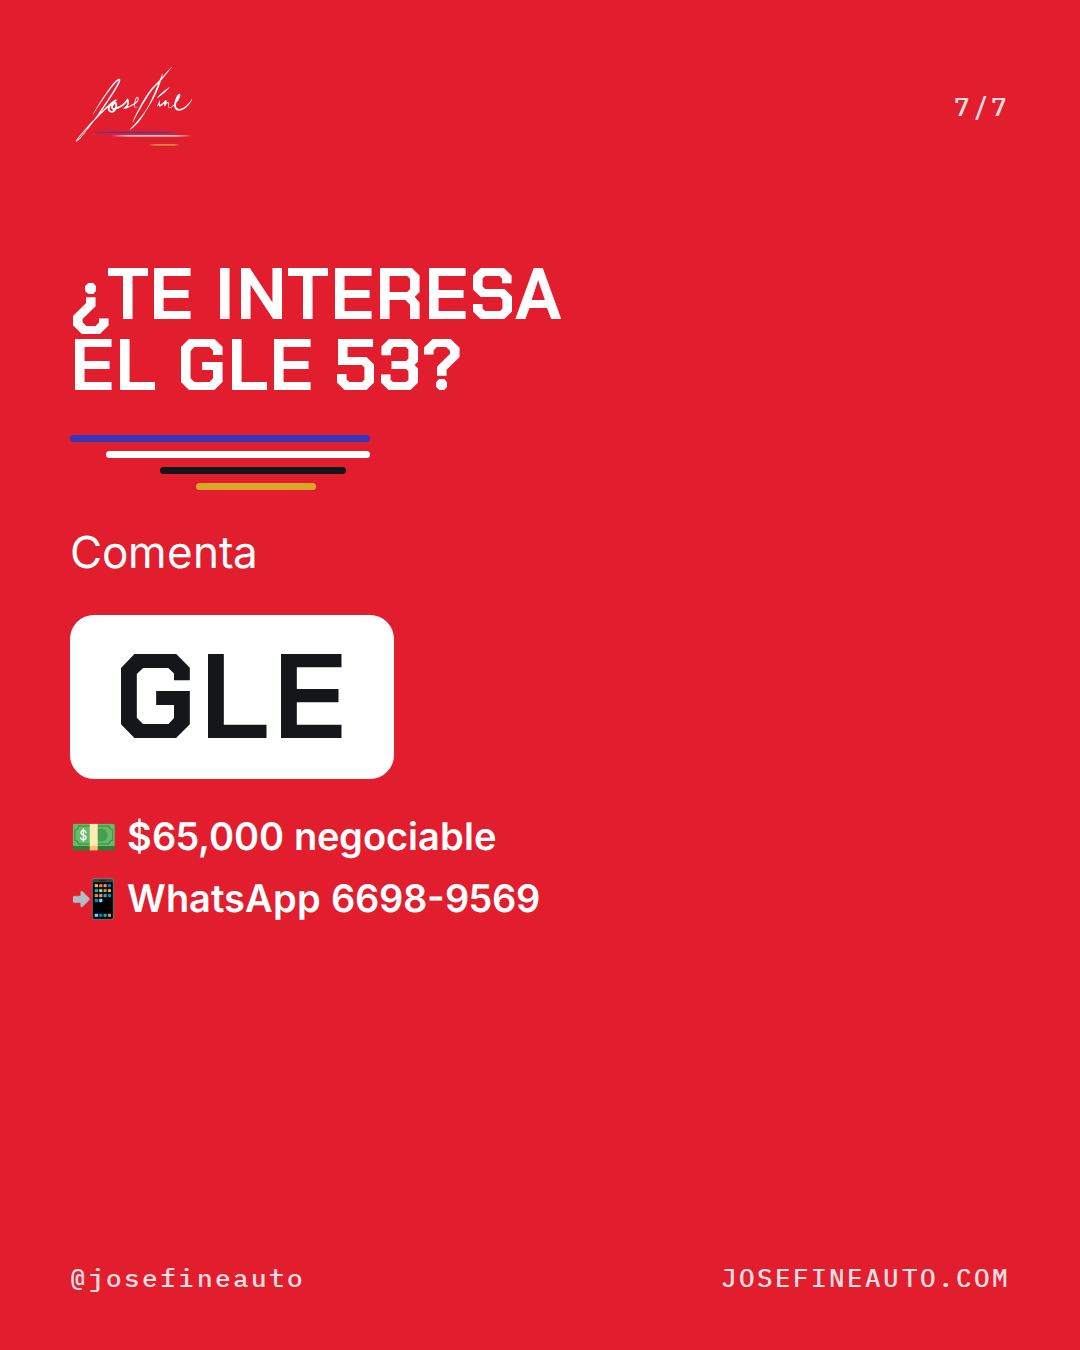
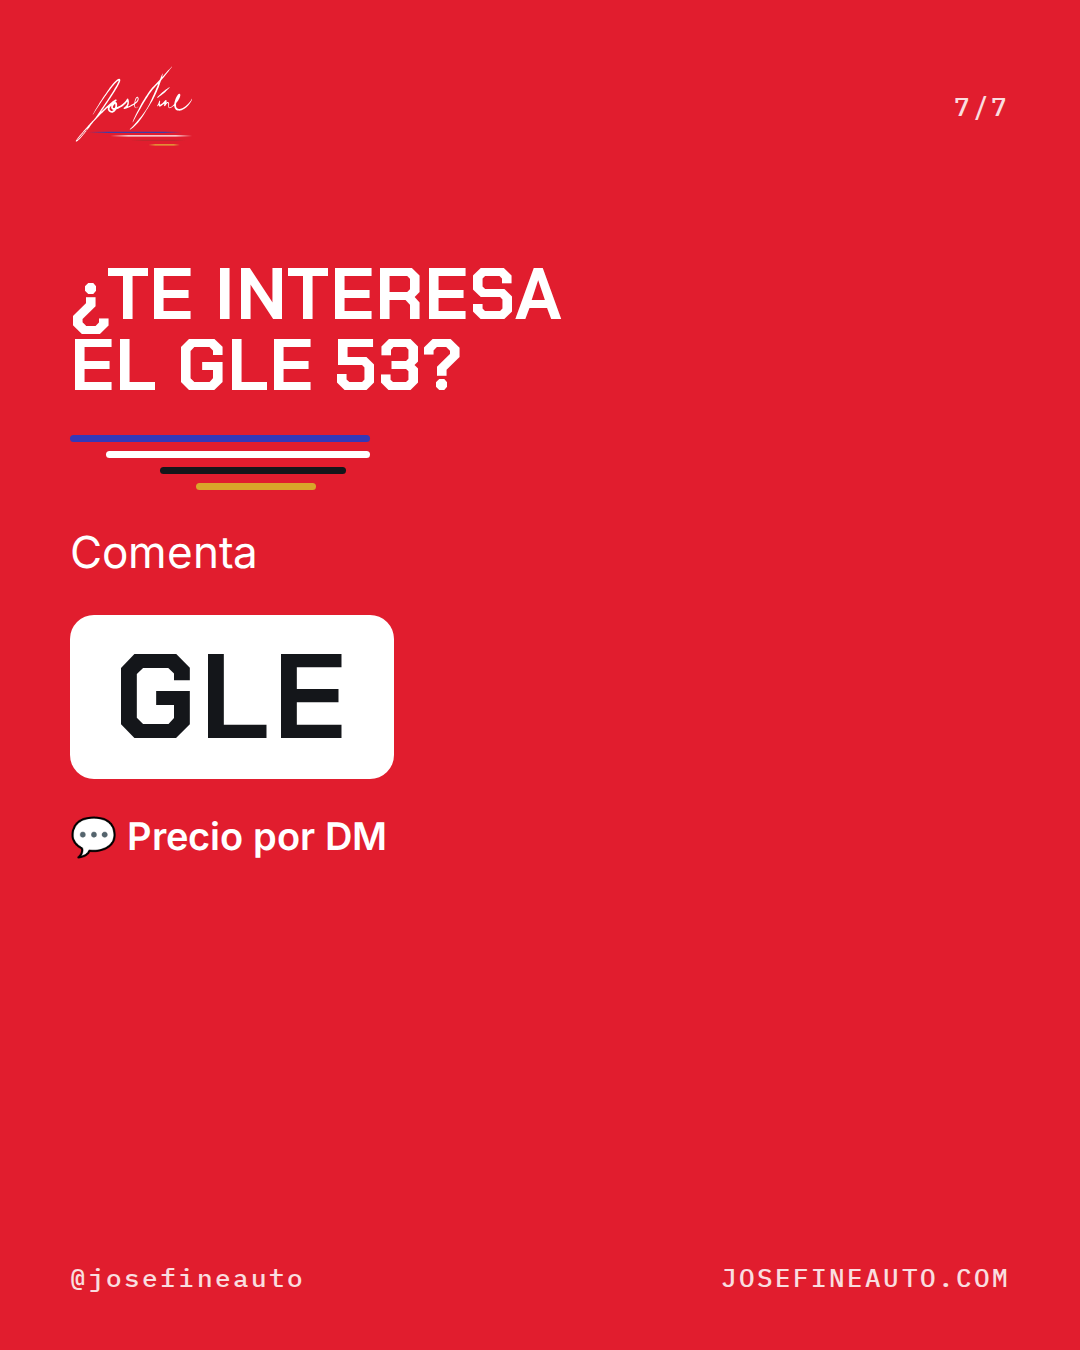
GLE 53: sin precio ni número en el post; «Precio por DM» en web y carrusel
Claude-Session: https://claude.ai/code/session_01Waia73eHNWtSrif5AzmwHD

Changed region(s): [[0.0611, 0.5911, 0.5194, 0.6844]]

diff --git a/herramientas/build/generar-post-gle53.js b/herramientas/build/generar-post-gle53.js
@@ -1,5 +1,5 @@
 /* Carrusel de venta: Mercedes-AMG GLE 53 Coupé (consignación). 7 láminas 1080x1350.
-   Solo datos visibles en las fotos o dados por el dueño; precio fijado por el dueño del carro ($65,000, 2026-10-06).
+   Solo datos visibles en las fotos o dados por el dueño; precio solo por DM (orden del dueño, 2026-10-06).
    Uso: NODE_PATH=<node_modules con playwright> node herramientas/build/generar-post-gle53.js
    Salida: web/kit/img/post5-gle53-XX.png */
 const { chromium } = require("playwright");
@@ -49,7 +49,7 @@ const T = 7;
 
 const LAMINAS = [
   `<div class="s"><div class="bg" style="background-image:url('${foto(1)}');background-position:center 62%"></div><div class="velo"></div>${top(`1/${T}`)}
-    <div class="txt"><span class="tag">En venta · $65,000</span><h1>Mercedes-AMG<br><em>GLE 53</em> Coupé</h1>${F}
+    <div class="txt"><span class="tag">En venta</span><h1>Mercedes-AMG<br><em>GLE 53</em> Coupé</h1>${F}
     <div class="chips"><span>2021</span><span>56,000 km</span><span>Automático</span><span>Blanco</span></div></div>${pie}</div>`,
   `<div class="s"><div class="ancha" style="background-image:url('${foto(3)}')"></div>${top(`2/${T}`)}
     <div class="txt"><h2>Silueta<br><em>coupé</em></h2>${F}<div class="chips"><span>Parrilla AMG Panamericana</span><span>Estribos laterales</span><span>Faros LED</span></div></div>${pie}</div>`,
@@ -62,7 +62,7 @@ const LAMINAS = [
   `<div class="s"><div class="bg" style="background-image:url('${foto(2)}');background-position:center 40%"></div><div class="velo"></div>${top(`6/${T}`)}
     <div class="txt"><h2>Lo que<br><em>trae</em></h2>${F}<div class="chips"><span>XPEL PPF en todo el carro</span><span>Michelin nuevas</span><span>Importado de USA</span><span>Sin choques</span><span>Libre para traspaso</span><span>Gasolina 95</span></div></div>${pie}</div>`,
   `<div class="s cta">${top(`7/${T}`)}<div class="txt"><h2>¿Te interesa<br>el GLE 53?</h2>${F}<p>Comenta</p><span class="comenta">GLE</span>
-    <div class="lista"><span>💵 $65,000 negociable</span><span>📲 WhatsApp 6698-9569</span></div></div>${pie}</div>`,
+    <div class="lista"><span>💬 Precio por DM</span></div></div>${pie}</div>`,
 ];
 
 (async () => {

diff --git a/web/kit/index.html b/web/kit/index.html
@@ -52,7 +52,7 @@
     var WEB = "josefineauto.com";
     var POSTS = [
       { id: "post5-gle53", n: 7, semana: "HOY · En venta", titulo: "Mercedes-AMG GLE 53 Coupé 2021",
-        texto: "EN VENTA 🔥 Mercedes-AMG GLE 53 Coupé 2021\n\n📍 Panamá · 56,000 km · Automático · Gasolina 95\n\n✅ XPEL PPF en todo el carro\n✅ Rines AMG 22\" · Michelin nuevas\n✅ Cálipers pintados en rojo\n✅ Alerón forrado en negro\n✅ Importado de USA · Sin choques\n✅ Libre para traspaso\n\n💵 $65,000 negociable\n\n👇 Comenta GLE y te escribimos por DM\n📲 WhatsApp 6698-9569\n🌐 " + WEB + "\n\n#mercedesamg #gle53 #amgpanama #carrospanama #autospanama #autosdelujo #panama #josefineauto" },
+        texto: "EN VENTA 🔥 Mercedes-AMG GLE 53 Coupé 2021\n\n📍 Panamá · 56,000 km · Automático · Gasolina 95\n\n✅ XPEL PPF en todo el carro\n✅ Rines AMG 22\" · Michelin nuevas\n✅ Cálipers pintados en rojo\n✅ Alerón forrado en negro\n✅ Importado de USA · Sin choques\n✅ Libre para traspaso\n\n💬 Precio por DM\n👇 Comenta GLE y te escribimos\n🌐 " + WEB + "\n\n#mercedesamg #gle53 #amgpanama #carrospanama #autospanama #autosdelujo #panama #josefineauto" },
       { id: "post0c-conocenos", n: 1, semana: "HOY · Conócenos (1 imagen)", titulo: "Conócenos",
         texto: "Somos Josefine Auto 🏁\n\nCompramos y vendemos carros seleccionados en Panamá. Cada carro se revisa antes de salir a la venta, para que compres tranquilo.\n\n¿Quieres vender el tuyo? Lo vendemos a comisión: tú apruebas el precio y solo cobramos si se vende.\n\nAudi A3, Range Rover Sport, Mini Countryman… y más ya tienen nuevo dueño. ¿El próximo es el tuyo?\n\n👉 Comenta VENDER o COMPRAR y te escribimos por DM.\n📲 WhatsApp 6698-9569\n🌐 Web en la bio\n\n#josefineauto #carrospanama #autospanama #vendetucarro #carrosusados #autosusadospanama #panama #pty",
         nota: "Publícalo entre 6 y 8 p. m. y fíjalo en tu perfil. Compártelo también en tu historia." },

diff --git a/companion/web.html b/companion/web.html
@@ -492,7 +492,6 @@ window.INVENTARIO = [
     "anio": 2021,
     "km": 56000,
     "transmision": "Automática",
-    "precio": 65000,
     "estado": "disponible",
     "tipo": "consignacion",
     "fotos": [
@@ -887,7 +886,7 @@ window.GUIAS = [
         '<div class="carro__sobre">' +
           "<h3>" + escapar(titulo) + (c.tipo === "consignacion" ? '<span class="etiqueta-tipo">A comisión</span>' : "") + "</h3>" +
           '<ul class="carro__datos">' + datosDe(c).map(function (d) { return "<li>" + escapar(d) + "</li>"; }).join("") + "</ul>" +
-          '<p class="carro__precio">' + (vendido ? "Vendido" : dinero.format(c.precio)) + "</p>" +
+          '<p class="carro__precio">' + (vendido ? "Vendido" : (c.precio ? dinero.format(c.precio) : "Precio por DM")) + "</p>" +
         "</div>" +
       "</div>" +
       ((c.destacado || c.defectos || !vendido) ? '<div class="carro__cuerpo">' +
@@ -925,7 +924,7 @@ window.GUIAS = [
     document.getElementById("ficha-info").innerHTML =
       '<span class="carro__estado estado--' + escapar(c.estado) + ' ficha-carro__estado">' + escapar(c.estado) + "</span>" +
       '<h2 id="ficha-titulo">' + escapar(titulo) + "</h2>" +
-      '<p class="carro__precio">' + (vendido ? "Vendido" : dinero.format(c.precio)) + "</p>" +
+      '<p class="carro__precio">' + (vendido ? "Vendido" : (c.precio ? dinero.format(c.precio) : "Precio por DM")) + "</p>" +
       '<dl class="ficha-carro__datos">' +
         [["Año", c.anio], ["Kilometraje", c.km ? numero.format(c.km) + " km" : ""], ["Motor", c.motor], ["Transmisión", c.transmision],
          ["Venta", c.tipo === "consignacion" ? "A comisión" : (c.tipo === "propio" ? "Josefine Auto" : "")]]

diff --git a/web/app.js b/web/app.js
@@ -64,7 +64,7 @@
         '<div class="carro__sobre">' +
           "<h3>" + escapar(titulo) + (c.tipo === "consignacion" ? '<span class="etiqueta-tipo">A comisión</span>' : "") + "</h3>" +
           '<ul class="carro__datos">' + datosDe(c).map(function (d) { return "<li>" + escapar(d) + "</li>"; }).join("") + "</ul>" +
-          '<p class="carro__precio">' + (vendido ? "Vendido" : dinero.format(c.precio)) + "</p>" +
+          '<p class="carro__precio">' + (vendido ? "Vendido" : (c.precio ? dinero.format(c.precio) : "Precio por DM")) + "</p>" +
         "</div>" +
       "</div>" +
       ((c.destacado || c.defectos || !vendido) ? '<div class="carro__cuerpo">' +
@@ -102,7 +102,7 @@
     document.getElementById("ficha-info").innerHTML =
       '<span class="carro__estado estado--' + escapar(c.estado) + ' ficha-carro__estado">' + escapar(c.estado) + "</span>" +
       '<h2 id="ficha-titulo">' + escapar(titulo) + "</h2>" +
-      '<p class="carro__precio">' + (vendido ? "Vendido" : dinero.format(c.precio)) + "</p>" +
+      '<p class="carro__precio">' + (vendido ? "Vendido" : (c.precio ? dinero.format(c.precio) : "Precio por DM")) + "</p>" +
       '<dl class="ficha-carro__datos">' +
         [["Año", c.anio], ["Kilometraje", c.km ? numero.format(c.km) + " km" : ""], ["Motor", c.motor], ["Transmisión", c.transmision],
          ["Venta", c.tipo === "consignacion" ? "A comisión" : (c.tipo === "propio" ? "Josefine Auto" : "")]]

diff --git a/web/datos.js b/web/datos.js
@@ -64,7 +64,6 @@ window.INVENTARIO = [
     "anio": 2021,
     "km": 56000,
     "transmision": "Automática",
-    "precio": 65000,
     "estado": "disponible",
     "tipo": "consignacion",
     "fotos": [

diff --git a/docs/normas.md b/docs/normas.md
@@ -14,6 +14,7 @@ Lo que está aquí no se vuelve a preguntar. Si dos normas chocan, manda la más
 | N07 | 2026-10-05 | Web | «pon mayor cantidad de atencion en que no salga como sitio inseguro quiero que se pueda entrar correctamente» + "Sí, actívalo" al proceso automático de HTTPS cada 15 min | Chat |
 | N08 | 2026-10-05 | Web | "Sí, hazlo ahora" a quitar y volver a poner josefineauto.com una vez (workflow `dominio.yml`, repedir=true) para que GitHub emita el certificado HTTPS | Chat (pregunta de opción múltiple) |
 | N09 | 2026-10-06 | GLE 53 | Precio de publicación: «dejale lo que dice el ciente y de en lo que se venda de ahi se saca la comision» → $65,000; la comisión sale del precio final | Chat |
+| N10 | 2026-10-06 | GLE 53 | «quita el precio y quita mi numero y di que precio al DM» (post y ficha web; reemplaza el precio publicado de N09) | Chat |
 
 ## Consecuencias de N06 en este proyecto (2026-10-05)
 - Gate `herramientas/check.py` en hook Stop y pre-push; lista `PENDIENTE-DUENO.md`; este registro; `CONTINUAR.md`; `IDEAS.md`; agente revisor.

diff --git a/PENDIENTE-DUENO.md b/PENDIENTE-DUENO.md
@@ -31,7 +31,7 @@ Versión visual con botones: https://claude.ai/artifact/5RDfy3zfV5AY6sxEmkVG4P
 ## Esta semana
 
 - [ ] **DUENO-03 · Firmar la consignación del GLE 53 con el cliente** · 15 min
-  Se publica a $65,000 en la web y el kit. Antes de mostrarlo a compradores:
+  Publicado con "Precio por DM" (mínimo del cliente: $65,000). Antes de mostrarlo a compradores:
   1. Firmen el contrato de consignación (3 %, mínimo $1.500; la comisión sale del precio de venta).
   2. Pide al cliente el **VIN** y mándaselo a Claude. Claude hace gratis la consulta de robo/pérdida total (NICB VINCheck). El historial completo de USA (Carfax) tiene costo: solo si tú lo decides.
   Enlace: https://josefineauto.com/kit/ficha-consignacion.html
